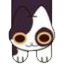
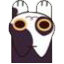
snake + main ui fixed

diff --git a/Catsy/Catsy/Features/Home/HomeView.xaml b/Catsy/Catsy/Features/Home/HomeView.xaml
@@ -4,11 +4,46 @@
     xmlns:x="http://schemas.microsoft.com/winfx/2009/xaml"
     x:Class="Catsy.HomeView">
 
-    <Border
-        BackgroundColor="Green"
-        StrokeThickness="0">
+    <Grid>
+        <CarouselView
+            ItemsSource="{Binding Pages}"
+            Position="{Binding SelectedIndex, Mode=TwoWay}"
+            IndicatorView="HomeIndicator"
+            IsSwipeEnabled="True"
+            PeekAreaInsets="0"
+            IsBounceEnabled="False"
+            >
+            <CarouselView.ItemsLayout>
+                <LinearItemsLayout Orientation="Horizontal"
+                           SnapPointsType="MandatorySingle"
+                           SnapPointsAlignment="Center"/>
+            </CarouselView.ItemsLayout>
 
-        <Grid x:Name="PagerHost" />
+            <CarouselView.ItemTemplate>
+                <DataTemplate>
+                    <Grid BackgroundColor="LightGreen">
 
-    </Border>
+                        <Label Text="{Binding Title}"
+                               HorizontalOptions="Center"
+                               VerticalOptions="Center"
+                               FontSize="32"
+                               TextColor="Black" />
+
+                    </Grid>
+                </DataTemplate>
+            </CarouselView.ItemTemplate>
+
+        </CarouselView>
+
+        <IndicatorView
+            x:Name="HomeIndicator"
+            HorizontalOptions="Center"
+            VerticalOptions="End"
+            Margin="0,0,0,20"
+            IndicatorColor="#CCCCCC"
+            SelectedIndicatorColor="Black"
+            IndicatorSize="8" />
+
+    </Grid>
+
 </ContentView>

diff --git a/Catsy/Catsy/Features/Minigames/Games/Snake/SnakeView.xaml b/Catsy/Catsy/Features/Minigames/Games/Snake/SnakeView.xaml
@@ -2,7 +2,7 @@
 <ContentView xmlns="http://schemas.microsoft.com/dotnet/2021/maui"
              xmlns:x="http://schemas.microsoft.com/winfx/2009/xaml"
              x:Class="Catsy.Features.Minigames.Games.Snake.SnakeView"
-             BackgroundColor="Black">
+             BackgroundColor="Green">
 
     <Grid
       RowDefinitions="Auto,*,Auto"

diff --git a/Catsy/Catsy/Features/Home/HomeView.xaml.cs b/Catsy/Catsy/Features/Home/HomeView.xaml.cs
@@ -2,69 +2,24 @@
 
 public partial class HomeView : ContentView
 {
-    HomeViewModel VM => (HomeViewModel)BindingContext;
-
-    View? _current;
-    int _lastIndex;
-    double PageWidth =>
-    Width > 0 ? Width :
-    PagerHost.Width > 0 ? PagerHost.Width :
-    0;
-
     public HomeView()
     {
         InitializeComponent();
         BindingContext = new HomeViewModel();
-
-        ShowScene(animated: false);
-        _lastIndex = VM.SelectedIndex;
-
-        VM.PropertyChanged += (_, e) =>
-        {
-            if (e.PropertyName == nameof(HomeViewModel.SelectedIndex))
-                ShowScene(animated: true);
-        };
-
-        PagerHost.GestureRecognizers.Add(new SwipeGestureRecognizer
-        {
-            Direction = SwipeDirection.Left,
-            Command = new Command(() => VM.GoRight())
-        });
-
-        PagerHost.GestureRecognizers.Add(new SwipeGestureRecognizer
-        {
-            Direction = SwipeDirection.Right,
-            Command = new Command(() => VM.GoLeft())
-        });
     }
-
-    async void ShowScene(bool animated)
+    protected override void OnHandlerChanged()
     {
-        if (PageWidth <= 0)
-            return;
+        base.OnHandlerChanged();
 
-        int direction = VM.SelectedIndex > _lastIndex ? 1 : -1;
-        _lastIndex = VM.SelectedIndex;
-
-        var next = new SceneView
+#if WINDOWS
+    if (Handler?.PlatformView is Microsoft.UI.Xaml.FrameworkElement fe)
+    {
+        fe.PointerWheelChanged += (s, e) =>
         {
-            BindingContext = VM.CurrentScene,
-            TranslationX = animated ? direction * PageWidth : 0
+            e.Handled = true; // letiltjuk a wheel scrollt
         };
-
-        PagerHost.Children.Add(next);
-
-        if (_current != null && animated)
-        {
-            await Task.WhenAll(
-                _current.TranslateTo(-direction * PageWidth, 0, 250, Easing.CubicOut),
-                next.TranslateTo(0, 0, 250, Easing.CubicOut)
-            );
-
-            PagerHost.Children.Remove(_current);
-            _current.BindingContext = null;
-        }
-
-        _current = next;
     }
+#endif
+    }
+
 }

diff --git a/Catsy/Catsy/Features/Home/HomeViewModel.cs b/Catsy/Catsy/Features/Home/HomeViewModel.cs
@@ -1,12 +1,14 @@
-using Catsy;
-using System.Collections.ObjectModel;
+using System.Collections.ObjectModel;
+
+namespace Catsy;
 
 public sealed class HomeViewModel : BindableObject
 {
-    public ObservableCollection<SceneModel> Pages { get; } = new()
+    public ObservableCollection<HomePageItem> Pages { get; } = new()
     {
-        new() { Title="City", Background="city.png" },
-        new() { Title="Forest", Background="forest.png" }
+        new HomePageItem { Title = "Welcome" },
+        new HomePageItem { Title = "Catsy Shop" },
+        new HomePageItem { Title = "Mini Games" }
     };
 
     int _selectedIndex;
@@ -15,21 +17,16 @@ public sealed class HomeViewModel : BindableObject
         get => _selectedIndex;
         set
         {
-            int clamped = Math.Max(0, Math.Min(value, Pages.Count - 1));
-            if (_selectedIndex != clamped)
+            if (_selectedIndex != value)
             {
-                _selectedIndex = clamped;
+                _selectedIndex = value;
                 OnPropertyChanged();
-                OnPropertyChanged(nameof(CurrentScene));
             }
         }
     }
+}
 
-    public SceneModel CurrentScene => Pages[SelectedIndex];
-
-    public bool CanLeft => SelectedIndex > 0;
-    public bool CanRight => SelectedIndex < Pages.Count - 1;
-
-    public void GoLeft() { if (CanLeft) SelectedIndex--; }
-    public void GoRight() { if (CanRight) SelectedIndex++; }
+public class HomePageItem
+{
+    public string Title { get; set; } = string.Empty;
 }

diff --git a/Catsy/Catsy/Features/Minigames/Games/Snake/Images.cs b/Catsy/Catsy/Features/Minigames/Games/Snake/Images.cs
@@ -6,12 +6,13 @@ namespace Catsy.Features.Minigames.Games.Snake
     {
         public static readonly ImageSource Empty =
             LoadImage("empty");
-
+        public static readonly ImageSource SnakeTail = 
+            LoadImage("cat01_tail");
         public static readonly ImageSource SnakeBody =
-            LoadImage("body");
+            LoadImage("cat01_body");
 
         public static readonly ImageSource SnakeHead =
-            LoadImage("head");
+            LoadImage("cat01_head");
         public static readonly ImageSource Food =
             LoadImage("food");
 

diff --git a/Catsy/Catsy/Features/Minigames/Games/Snake/Direction.cs b/Catsy/Catsy/Features/Minigames/Games/Snake/Direction.cs
@@ -47,5 +47,15 @@ namespace Catsy.Features.Minigames.Games.Snake
         {
             return !(left == right);
         }
+        public static Direction FromOffset(int rowOffset, int colOffset)
+        {
+            if (rowOffset == -1 && colOffset == 0) return Up;
+            if (rowOffset == 1 && colOffset == 0) return Down;
+            if (rowOffset == 0 && colOffset == -1) return Left;
+            if (rowOffset == 0 && colOffset == 1) return Right;
+
+            throw new ArgumentException("Invalid direction offset");
+        }
+
     }
 }
